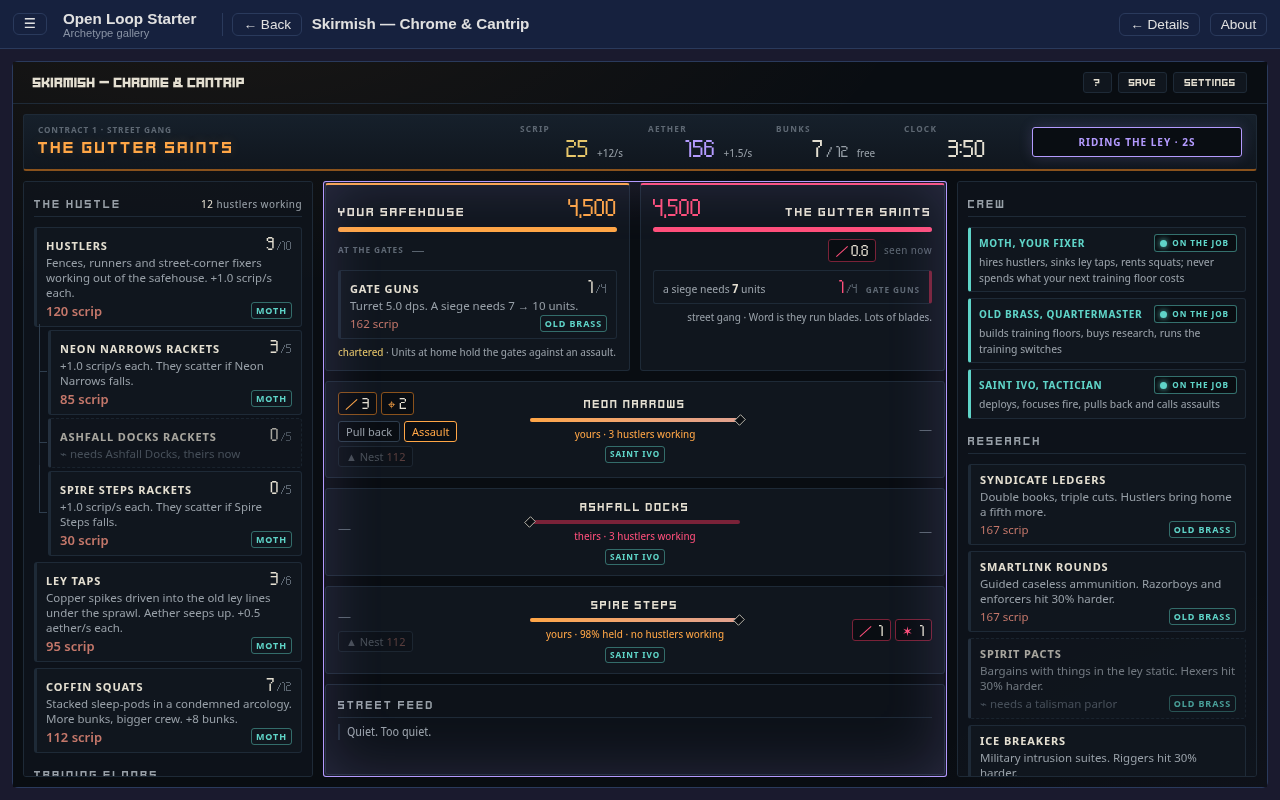
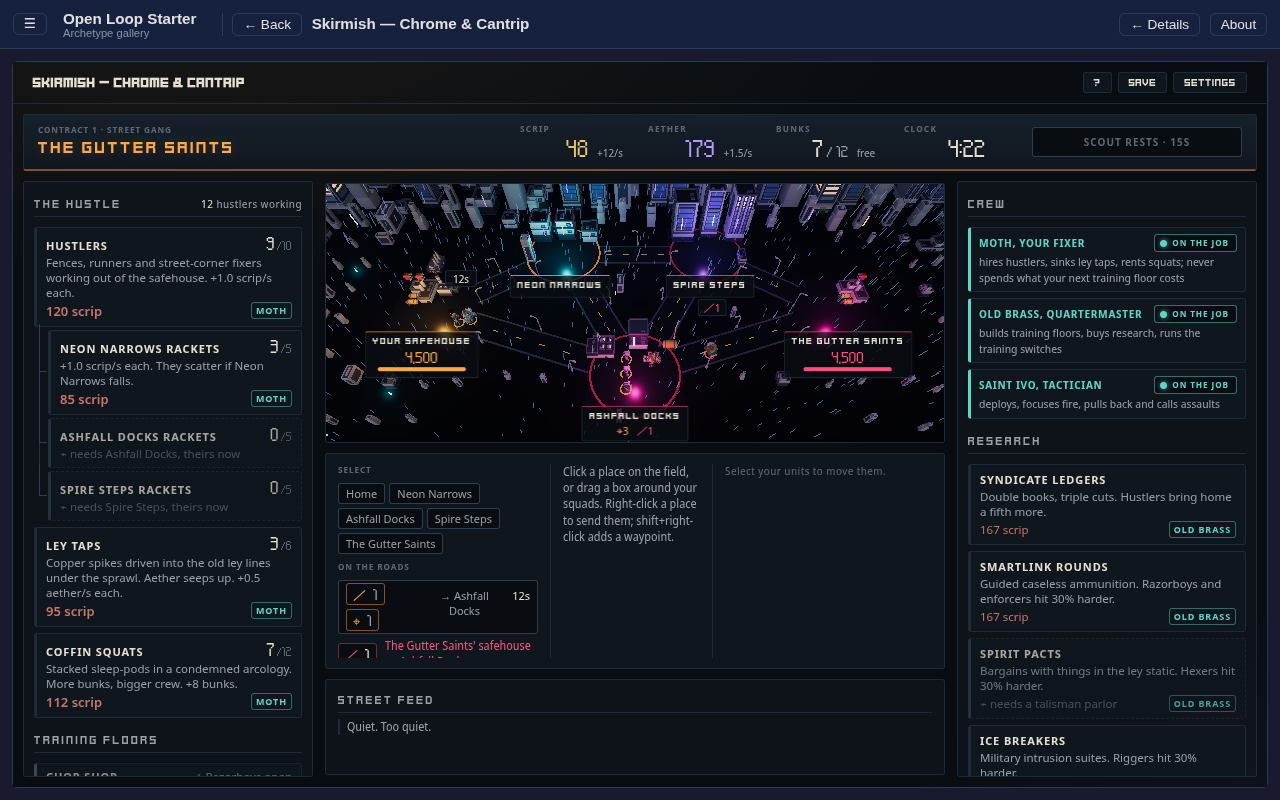
docs(skirmish): adding a renderer, the field's growth ports, and new shots
AGENTS.md gains § Adding a renderer: the pnpm add lines for three and
pixi.js, the range taken from starter's package.json (three's minor is
its breaking line), the three dedupe and chunk in vite.config.ts, the
engine's read-only projection recipe, the jsdom stand-in, the headless
GPU flags, and the two stories as worked examples. It names no version,
so it stays true as starter moves.

IDENTITY.md growth ports: a flank that surprises (roads seen only from
a squad or nest, the rival fogged like the player) and a raid detachment
(a persona share raids the weakest reachable holding).

The beat saves are re-written for travel (the first district at match
second 131, the charter at 256, the assault at 462.5), and the shots are
re-taken on the three.js field. game.json's capture runs on the host GPU,
and skirmish's card waits 6 s for the models. The domain map is
unchanged.

Refs #58

diff --git a/AGENTS.md b/AGENTS.md
@@ -204,3 +204,25 @@ const showDevPanel = ref(false);
 ## Peer Setup
 
 `@open-loop/engine` is an ordinary dependency. The version range in `package.json` is the pin, and engine updates come through your package manager like any other. A checkout may resolve it to a local sibling through a workspace override, which supersedes that range. Check for one before you trust the range.
+
+## Adding a renderer
+
+A renderer is the drawing library a game draws its play space with, beside the Vue DOM. Starter's stories use two: `pixi.js` for 2D sprites and `three` for 3D. A canvas 2D drawing needs no renderer.
+
+Eject removes each renderer the kept game does not import. To add one to a fork:
+
+```bash
+pnpm add three && pnpm add -D @types/three   # three.js ships its types separately
+pnpm add pixi.js                             # pixi ships its own types
+```
+
+- **Range.** Take the range from starter's `package.json`, because the stories test it. The minor version of three is its breaking line, so a caret range on `0.x` holds one minor.
+- **One copy of three.** `vite.config.ts` dedupes `three` and gives it its own chunk. Keep both. Without the dedupe, an addon from `three/addons` can load a second copy of three. Neither entry does anything in a fork without three.
+- **The drawing.** Follow the engine recipe § Drawing ticking game state: a read-only projection. It is in `docs/consumer-guide-recipes-tick.md` in the `@open-loop/engine` package. The drawing owns its loop, reads game state each animation frame, and writes none.
+- **Tests.** jsdom has no WebGL. A component test of a WebGL host replaces the scene class with a stand-in through `vi.mock`.
+- **Screenshots.** Headless Chrome draws WebGL in software, at a few frames a second. Launch it on the host GPU with `--use-angle=gl-egl --ignore-gpu-blocklist`.
+- **Worked examples.** In a starter checkout, skirmish's `ui/field/` draws with three, and defender's `ui/components/PestLayer.vue` with pixi.
+
+<!-- eject:strip-start -->
+A story that adds a renderer lists it in `SHOWCASE_ONLY_DEPS`; `src/showcase/AGENTS.md` § Fork workflow says why.
+<!-- eject:strip-end -->

diff --git a/src/showcase/archetypes/skirmish/IDENTITY.md b/src/showcase/archetypes/skirmish/IDENTITY.md
@@ -101,6 +101,8 @@ Each match is a few minutes; the rival's income terms climb to parity by the meg
 ## Growth ports
 
 - **A converter input reserve.** A seat saving for a purchase must switch its floors off.
+- **A flank that surprises.** A road is seen only from a squad or nest at one of its ends, or while scouting. The rival is fogged like the player. A flank can then surprise either seat. It changes the rival's information model, so the counter probe measures the counter edge again.
+- **A raid detachment.** The persona sends a share of ready units at the enemy's weakest reachable holding while the main army fights, for pressure on two fronts. It breaks the spine's one-army walk: the walk's landmarks are derived again, and a raid-outcome probe measures what the raids take.
 
 ## Engine fit
 
